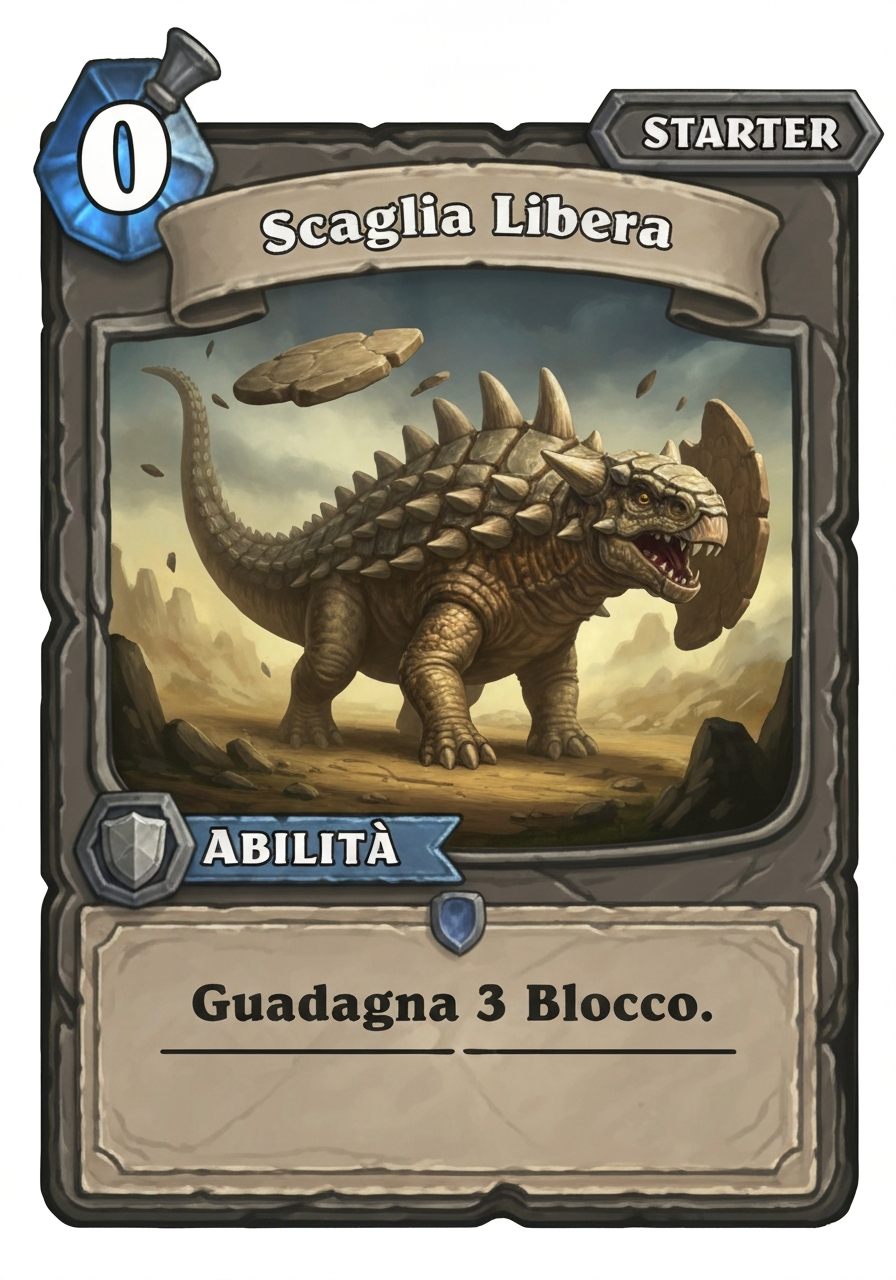
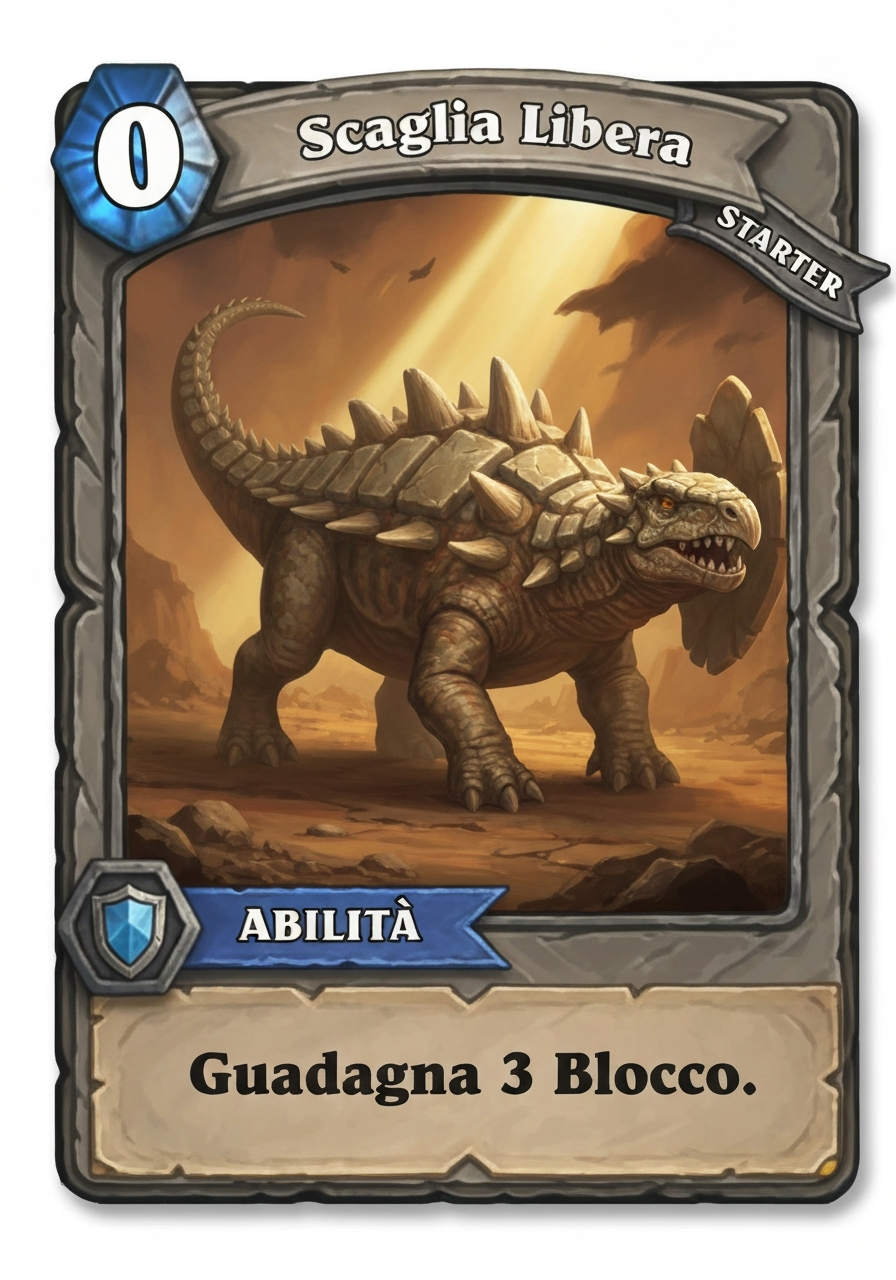
fix(gen): prevent text hallucinations in card art
- Strip accents from all in-prompt text (ABILITA not ABILITA)
- Remove flavor text from image (too small, always garbled)
- Add CRITICAL RULES block with explicit ASCII-only constraint
- Add stripAccents() utility applied to cardName and effectText

diff --git a/scripts/generate-full-cards.ts b/scripts/generate-full-cards.ts
@@ -122,9 +122,9 @@ const RARITY_FRAME: Record<string, string> = {
 };
 
 const TYPE_BANNER: Record<string, string> = {
-  attack: 'crimson red banner labeled ATTACCO with a sword icon on the left',
-  skill:  'sapphire blue banner labeled ABILITÀ with a shield icon on the left',
-  power:  'amber gold banner labeled POTERE with a star/sparkle icon on the left',
+  attack: 'crimson red banner with a sword icon on the left and the word ATTACCO in large bold capitals',
+  skill:  'sapphire blue banner with a shield icon on the left and the word ABILITA in large bold capitals',
+  power:  'amber gold banner with a sparkle icon on the left and the word POTERE in large bold capitals',
 };
 
 // ---------------------------------------------------------------------------
@@ -138,9 +138,9 @@ const STATUS_IT: Record<string, string> = {
   poison:      'Veleno',
   vigor:       'Vigore',
   thorns:      'Spine',
-  regen:       'Rigenerazione',
+  regen:       'Regen',
   frail:       'Fragile',
-  burn:        'Bruciatura',
+  burn:        'Fuoco',
 };
 
 function statusName(key: string): string {
@@ -175,6 +175,10 @@ function capitalize(s: string): string {
   return s.charAt(0).toUpperCase() + s.slice(1);
 }
 
+function stripAccents(s: string): string {
+  return s.normalize('NFD').replace(/[̀-ͯ]/g, '');
+}
+
 // ---------------------------------------------------------------------------
 // Full-card prompt builder
 // ---------------------------------------------------------------------------
@@ -183,33 +187,31 @@ function buildPrompt(card: CardData, hero: string): string {
   const frame    = RARITY_FRAME[card.rarity] ?? RARITY_FRAME.common;
   const typeBnr  = TYPE_BANNER[card.type] ?? TYPE_BANNER.skill;
   const cost     = card.cost === 'X' ? 'X' : String(card.cost);
-  const effText  = effectText(card.effects);
-  const flavor   = card.flavorIt ? card.flavorIt.slice(0, 80) : null;
+  const effText  = stripAccents(effectText(card.effects));
   const heroDesc = HERO_DINO[hero] ?? HERO_DINO.borea;
   const scene    = CARD_SCENES[card.id] ?? 'the dinosaur in a powerful combat stance, dramatic action pose';
-  const cardName = card.name.it;
-
-  const flavorLine = flavor
-    ? `At the very bottom of the card, below a thin horizontal separator, a small italicized flavor quote: "${flavor}"`
-    : '';
+  const cardName = stripAccents(card.name.it);
+  const rarityLabel = card.rarity.toUpperCase();
 
   return [
-    `A professional fantasy trading card game card. Portrait orientation, 3:4 aspect ratio. Hearthstone visual quality.`,
+    `A professional fantasy trading card game card. Portrait orientation, 3:4 aspect ratio. Hearthstone visual quality. Painterly digital art, dark atmospheric palette (obsidian blacks, volcanic amber, warm gold, stone grey).`,
 
     `The card frame uses ${frame} styling and surrounds the entire card.`,
 
-    `At the top of the card, three elements appear side by side on a single row: on the left a circular gem badge with the bold number "${cost}" in white (the energy cost); in the center a stone nameplate with the card title "${cardName}" in large bold fantasy serif lettering (Cinzel style), clearly legible; on the right a small rounded badge reading "${card.rarity.toUpperCase()}" in the frame's accent color.`,
+    `At the top of the card: on the left a circular gem badge with only the number "${cost}" in bold white; in the center a stone nameplate with only the title "${cardName}" in large bold fantasy serif lettering; on the right a small badge with only the word "${rarityLabel}".`,
 
-    `The central illustration occupies roughly half the card height. It shows: ${heroDesc}. Scene: ${scene}. Dramatic chiaroscuro lighting, dark background, painterly digital art style. The dinosaur is the dominant visual focus.`,
+    `The central illustration occupies roughly half the card height. It shows: ${heroDesc}. Scene: ${scene}. Dramatic chiaroscuro lighting, one strong directional light source, painterly brushwork. The dinosaur is the dominant visual focus.`,
 
-    `Immediately below the illustration, a full-width banner ribbon in ${typeBnr} style marks the card type.`,
+    `Immediately below the illustration, a full-width banner ribbon: ${typeBnr}.`,
 
-    `Below that ribbon, a text box with a dark parchment-brown textured background displays in large legible fantasy font the following words and nothing else: "${effText}"`,
+    `Below that ribbon, a parchment-brown text box displaying only this sentence in a large legible serif font: "${effText}"`,
 
-    flavorLine,
-
-    `Important rules: do not add any label, heading, keyword, or extra word beyond those listed above. The only text on the card is the card title "${cardName}", the cost number "${cost}", the rarity word "${card.rarity.toUpperCase()}", the type ribbon text, the effect sentence "${effText}"${flavor ? `, and the flavor quote "${flavor}"` : ''}. No other text, no watermarks, no lorem ipsum, no placeholder labels. Painterly digital art, dark palette (obsidian, volcanic amber, warm gold, stone grey). All text must be sharp and fully legible.`,
-  ].filter(Boolean).join('\n\n');
+    `CRITICAL RULES — do not break these:
+- The ONLY words allowed on the entire card are: the title "${cardName}", the number "${cost}", the word "${rarityLabel}", the banner type word, and the effect sentence "${effText}".
+- Do NOT add any other text, label, heading, description, watermark, flavor text, lorem ipsum, random letters, or any other writing anywhere on the card.
+- Do NOT invent new words or paraphrase the effect text — copy it exactly.
+- All rendered text must use standard ASCII characters only — no accents, no special characters.`,
+  ].join('\n\n');
 }
 
 // ---------------------------------------------------------------------------
